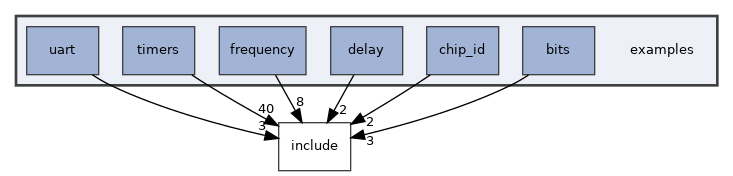
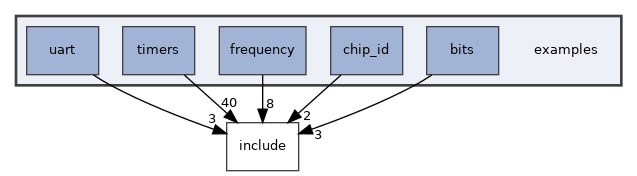
delay.h contains all includes now

Changed region(s): [[0.0, 0.0852, 0.9843, 0.9943], [0.5667, 0.5398, 0.6562, 0.6534], [0.6264, 0.483, 0.686, 0.5682]]

diff --git a/docs/html/dir_000009_000006.html b/docs/html/dir_000009_000006.html
@@ -21,7 +21,7 @@
  <tbody>
  <tr id="projectrow">
   <td id="projectalign">
-   <div id="projectname">STC15W408AS library<span id="projectnumber">&#160;0.3</span>
+   <div id="projectname">STC15W408AS library<span id="projectnumber">&#160;0.4</span>
    </div>
   </td>
  </tr>
@@ -66,7 +66,7 @@ $(function() {
 </div>
 </div><!-- top -->
 <div class="contents">
-<h3>src &rarr; include Relation</h3><table class="dirtab"><tr class="dirtab"><th class="dirtab">File in src</th><th class="dirtab">Includes file in include</th></tr><tr class="dirtab"><td class="dirtab"><b>chip_id.c</b></td><td class="dirtab"><a class="el" href="chip__id_8h.html">chip_id.h</a></td></tr><tr class="dirtab"><td class="dirtab"><b>chip_id_example.c</b></td><td class="dirtab"><a class="el" href="chip__id_8h.html">chip_id.h</a></td></tr><tr class="dirtab"><td class="dirtab"><b>chip_id_example.c</b></td><td class="dirtab"><a class="el" href="uart_8h.html">uart.h</a></td></tr><tr class="dirtab"><td class="dirtab"><b>delay.c</b></td><td class="dirtab"><a class="el" href="delay_8h.html">delay.h</a></td></tr><tr class="dirtab"><td class="dirtab"><b>delay.c</b></td><td class="dirtab"><a class="el" href="frequency_8h.html">frequency.h</a></td></tr><tr class="dirtab"><td class="dirtab"><b>frequency.c</b></td><td class="dirtab"><a class="el" href="frequency_8h.html">frequency.h</a></td></tr><tr class="dirtab"><td class="dirtab"><b>frequency.c</b></td><td class="dirtab"><a class="el" href="sys_8h.html">sys.h</a></td></tr><tr class="dirtab"><td class="dirtab"><b>interrupts.c</b></td><td class="dirtab"><a class="el" href="interrupts_8h.html">interrupts.h</a></td></tr><tr class="dirtab"><td class="dirtab"><b>interrupts.c</b></td><td class="dirtab"><a class="el" href="sys_8h.html">sys.h</a></td></tr><tr class="dirtab"><td class="dirtab"><b>timer0_common.c</b></td><td class="dirtab"><a class="el" href="sys_8h.html">sys.h</a></td></tr><tr class="dirtab"><td class="dirtab"><b>timer0_common.c</b></td><td class="dirtab"><a class="el" href="timer_8h.html">timer.h</a></td></tr><tr class="dirtab"><td class="dirtab"><b>timer0_mode0.c</b></td><td class="dirtab"><a class="el" href="sys_8h.html">sys.h</a></td></tr><tr class="dirtab"><td class="dirtab"><b>timer0_mode0.c</b></td><td class="dirtab"><a class="el" href="timer_8h.html">timer.h</a></td></tr><tr class="dirtab"><td class="dirtab"><b>timer0_mode1.c</b></td><td class="dirtab"><a class="el" href="sys_8h.html">sys.h</a></td></tr><tr class="dirtab"><td class="dirtab"><b>timer2_common.c</b></td><td class="dirtab"><a class="el" href="sys_8h.html">sys.h</a></td></tr><tr class="dirtab"><td class="dirtab"><b>timer2_common.c</b></td><td class="dirtab"><a class="el" href="timer_8h.html">timer.h</a></td></tr><tr class="dirtab"><td class="dirtab"><b>timer2_mode0.c</b></td><td class="dirtab"><a class="el" href="sys_8h.html">sys.h</a></td></tr><tr class="dirtab"><td class="dirtab"><b>uart.c</b></td><td class="dirtab"><a class="el" href="sys_8h.html">sys.h</a></td></tr><tr class="dirtab"><td class="dirtab"><b>uart.c</b></td><td class="dirtab"><a class="el" href="uart_8h.html">uart.h</a></td></tr></table></div><!-- contents -->
+<h3>src &rarr; include Relation</h3><table class="dirtab"><tr class="dirtab"><th class="dirtab">File in src</th><th class="dirtab">Includes file in include</th></tr><tr class="dirtab"><td class="dirtab"><b>chip_id.c</b></td><td class="dirtab"><a class="el" href="chip__id_8h.html">chip_id.h</a></td></tr><tr class="dirtab"><td class="dirtab"><b>delay.c</b></td><td class="dirtab"><a class="el" href="delay_8h.html">delay.h</a></td></tr><tr class="dirtab"><td class="dirtab"><b>delay_example.c</b></td><td class="dirtab"><a class="el" href="delay_8h.html">delay.h</a></td></tr><tr class="dirtab"><td class="dirtab"><b>delay_example.c</b></td><td class="dirtab"><a class="el" href="sys_8h.html">sys.h</a></td></tr><tr class="dirtab"><td class="dirtab"><b>frequency.c</b></td><td class="dirtab"><a class="el" href="frequency_8h.html">frequency.h</a></td></tr><tr class="dirtab"><td class="dirtab"><b>frequency.c</b></td><td class="dirtab"><a class="el" href="sys_8h.html">sys.h</a></td></tr><tr class="dirtab"><td class="dirtab"><b>interrupts.c</b></td><td class="dirtab"><a class="el" href="interrupts_8h.html">interrupts.h</a></td></tr><tr class="dirtab"><td class="dirtab"><b>interrupts.c</b></td><td class="dirtab"><a class="el" href="sys_8h.html">sys.h</a></td></tr><tr class="dirtab"><td class="dirtab"><b>timer0_common.c</b></td><td class="dirtab"><a class="el" href="sys_8h.html">sys.h</a></td></tr><tr class="dirtab"><td class="dirtab"><b>timer0_common.c</b></td><td class="dirtab"><a class="el" href="timer_8h.html">timer.h</a></td></tr><tr class="dirtab"><td class="dirtab"><b>timer0_mode0.c</b></td><td class="dirtab"><a class="el" href="sys_8h.html">sys.h</a></td></tr><tr class="dirtab"><td class="dirtab"><b>timer0_mode0.c</b></td><td class="dirtab"><a class="el" href="timer_8h.html">timer.h</a></td></tr><tr class="dirtab"><td class="dirtab"><b>timer0_mode1.c</b></td><td class="dirtab"><a class="el" href="sys_8h.html">sys.h</a></td></tr><tr class="dirtab"><td class="dirtab"><b>timer2_common.c</b></td><td class="dirtab"><a class="el" href="sys_8h.html">sys.h</a></td></tr><tr class="dirtab"><td class="dirtab"><b>timer2_common.c</b></td><td class="dirtab"><a class="el" href="timer_8h.html">timer.h</a></td></tr><tr class="dirtab"><td class="dirtab"><b>timer2_mode0.c</b></td><td class="dirtab"><a class="el" href="sys_8h.html">sys.h</a></td></tr><tr class="dirtab"><td class="dirtab"><b>uart.c</b></td><td class="dirtab"><a class="el" href="sys_8h.html">sys.h</a></td></tr><tr class="dirtab"><td class="dirtab"><b>uart.c</b></td><td class="dirtab"><a class="el" href="uart_8h.html">uart.h</a></td></tr></table></div><!-- contents -->
 <!-- start footer part -->
 <hr class="footer"/><address class="footer"><small>
 Generated by&#160;<a href="https://www.doxygen.org/index.html"><img class="footer" src="doxygen.svg" width="104" height="31" alt="doxygen"/></a> 1.9.4

diff --git a/docs/html/dir_000002_000006.html b/docs/html/dir_000002_000006.html
@@ -5,7 +5,7 @@
 <meta http-equiv="X-UA-Compatible" content="IE=11"/>
 <meta name="generator" content="Doxygen 1.9.4"/>
 <meta name="viewport" content="width=device-width, initial-scale=1"/>
-<title>STC15W408AS library: examples/timers/common -&gt; include Relation</title>
+<title>STC15W408AS library: examples/chip_id -&gt; include Relation</title>
 <link href="tabs.css" rel="stylesheet" type="text/css"/>
 <script type="text/javascript" src="jquery.js"></script>
 <script type="text/javascript" src="dynsections.js"></script>
@@ -21,7 +21,7 @@
  <tbody>
  <tr id="projectrow">
   <td id="projectalign">
-   <div id="projectname">STC15W408AS library<span id="projectnumber">&#160;0.3</span>
+   <div id="projectname">STC15W408AS library<span id="projectnumber">&#160;0.4</span>
    </div>
   </td>
  </tr>
@@ -62,11 +62,11 @@ $(function() {
 
 <div id="nav-path" class="navpath">
   <ul>
-<li class="navelem"><a class="el" href="dir_d28a4824dc47e487b107a5db32ef43c4.html">examples</a></li><li class="navelem"><a class="el" href="dir_85259a4d698e3dedfaa3528402e5a418.html">timers</a></li><li class="navelem"><a class="el" href="dir_6709bcf2d913ef364a8cac64c0b067c4.html">common</a></li>  </ul>
+<li class="navelem"><a class="el" href="dir_d28a4824dc47e487b107a5db32ef43c4.html">examples</a></li><li class="navelem"><a class="el" href="dir_3d912f430f8f20417cc587910e4b8eb6.html">chip_id</a></li>  </ul>
 </div>
 </div><!-- top -->
 <div class="contents">
-<h3>common &rarr; include Relation</h3><table class="dirtab"><tr class="dirtab"><th class="dirtab">File in examples/timers/common</th><th class="dirtab">Includes file in include</th></tr><tr class="dirtab"><td class="dirtab"><b>timer0_common_example.c</b></td><td class="dirtab"><a class="el" href="delay_8h.html">delay.h</a></td></tr><tr class="dirtab"><td class="dirtab"><b>timer0_common_example.c</b></td><td class="dirtab"><a class="el" href="sys_8h.html">sys.h</a></td></tr><tr class="dirtab"><td class="dirtab"><b>timer0_common_example.c</b></td><td class="dirtab"><a class="el" href="timer_8h.html">timer.h</a></td></tr><tr class="dirtab"><td class="dirtab"><b>timer0_common_example.c</b></td><td class="dirtab"><a class="el" href="uart_8h.html">uart.h</a></td></tr><tr class="dirtab"><td class="dirtab"><b>timer0_mode0_12T_interrupt_example.c</b></td><td class="dirtab"><a class="el" href="delay_8h.html">delay.h</a></td></tr><tr class="dirtab"><td class="dirtab"><b>timer0_mode0_12T_interrupt_example.c</b></td><td class="dirtab"><a class="el" href="sys_8h.html">sys.h</a></td></tr><tr class="dirtab"><td class="dirtab"><b>timer0_mode0_12T_interrupt_example.c</b></td><td class="dirtab"><a class="el" href="timer_8h.html">timer.h</a></td></tr><tr class="dirtab"><td class="dirtab"><b>timer2_common_example.c</b></td><td class="dirtab"><a class="el" href="delay_8h.html">delay.h</a></td></tr><tr class="dirtab"><td class="dirtab"><b>timer2_common_example.c</b></td><td class="dirtab"><a class="el" href="sys_8h.html">sys.h</a></td></tr><tr class="dirtab"><td class="dirtab"><b>timer2_common_example.c</b></td><td class="dirtab"><a class="el" href="timer_8h.html">timer.h</a></td></tr><tr class="dirtab"><td class="dirtab"><b>timer2_common_example.c</b></td><td class="dirtab"><a class="el" href="uart_8h.html">uart.h</a></td></tr></table></div><!-- contents -->
+<h3>chip_id &rarr; include Relation</h3><table class="dirtab"><tr class="dirtab"><th class="dirtab">File in examples/chip_id</th><th class="dirtab">Includes file in include</th></tr><tr class="dirtab"><td class="dirtab"><b>chip_id_example.c</b></td><td class="dirtab"><a class="el" href="chip__id_8h.html">chip_id.h</a></td></tr><tr class="dirtab"><td class="dirtab"><b>chip_id_example.c</b></td><td class="dirtab"><a class="el" href="uart_8h.html">uart.h</a></td></tr></table></div><!-- contents -->
 <!-- start footer part -->
 <hr class="footer"/><address class="footer"><small>
 Generated by&#160;<a href="https://www.doxygen.org/index.html"><img class="footer" src="doxygen.svg" width="104" height="31" alt="doxygen"/></a> 1.9.4

diff --git a/docs/html/dir_000003_000006.html b/docs/html/dir_000003_000006.html
@@ -5,7 +5,7 @@
 <meta http-equiv="X-UA-Compatible" content="IE=11"/>
 <meta name="generator" content="Doxygen 1.9.4"/>
 <meta name="viewport" content="width=device-width, initial-scale=1"/>
-<title>STC15W408AS library: examples/delay -&gt; include Relation</title>
+<title>STC15W408AS library: examples/timers/common -&gt; include Relation</title>
 <link href="tabs.css" rel="stylesheet" type="text/css"/>
 <script type="text/javascript" src="jquery.js"></script>
 <script type="text/javascript" src="dynsections.js"></script>
@@ -21,7 +21,7 @@
  <tbody>
  <tr id="projectrow">
   <td id="projectalign">
-   <div id="projectname">STC15W408AS library<span id="projectnumber">&#160;0.3</span>
+   <div id="projectname">STC15W408AS library<span id="projectnumber">&#160;0.4</span>
    </div>
   </td>
  </tr>
@@ -62,11 +62,11 @@ $(function() {
 
 <div id="nav-path" class="navpath">
   <ul>
-<li class="navelem"><a class="el" href="dir_d28a4824dc47e487b107a5db32ef43c4.html">examples</a></li><li class="navelem"><a class="el" href="dir_a077256fa57d221b8243921f3a5dc181.html">delay</a></li>  </ul>
+<li class="navelem"><a class="el" href="dir_d28a4824dc47e487b107a5db32ef43c4.html">examples</a></li><li class="navelem"><a class="el" href="dir_85259a4d698e3dedfaa3528402e5a418.html">timers</a></li><li class="navelem"><a class="el" href="dir_6709bcf2d913ef364a8cac64c0b067c4.html">common</a></li>  </ul>
 </div>
 </div><!-- top -->
 <div class="contents">
-<h3>delay &rarr; include Relation</h3><table class="dirtab"><tr class="dirtab"><th class="dirtab">File in examples/delay</th><th class="dirtab">Includes file in include</th></tr><tr class="dirtab"><td class="dirtab"><b>delay_example.c</b></td><td class="dirtab"><a class="el" href="delay_8h.html">delay.h</a></td></tr><tr class="dirtab"><td class="dirtab"><b>delay_example.c</b></td><td class="dirtab"><a class="el" href="sys_8h.html">sys.h</a></td></tr></table></div><!-- contents -->
+<h3>common &rarr; include Relation</h3><table class="dirtab"><tr class="dirtab"><th class="dirtab">File in examples/timers/common</th><th class="dirtab">Includes file in include</th></tr><tr class="dirtab"><td class="dirtab"><b>timer0_common_example.c</b></td><td class="dirtab"><a class="el" href="delay_8h.html">delay.h</a></td></tr><tr class="dirtab"><td class="dirtab"><b>timer0_common_example.c</b></td><td class="dirtab"><a class="el" href="sys_8h.html">sys.h</a></td></tr><tr class="dirtab"><td class="dirtab"><b>timer0_common_example.c</b></td><td class="dirtab"><a class="el" href="timer_8h.html">timer.h</a></td></tr><tr class="dirtab"><td class="dirtab"><b>timer0_common_example.c</b></td><td class="dirtab"><a class="el" href="uart_8h.html">uart.h</a></td></tr><tr class="dirtab"><td class="dirtab"><b>timer0_mode0_12T_interrupt_example.c</b></td><td class="dirtab"><a class="el" href="delay_8h.html">delay.h</a></td></tr><tr class="dirtab"><td class="dirtab"><b>timer0_mode0_12T_interrupt_example.c</b></td><td class="dirtab"><a class="el" href="sys_8h.html">sys.h</a></td></tr><tr class="dirtab"><td class="dirtab"><b>timer0_mode0_12T_interrupt_example.c</b></td><td class="dirtab"><a class="el" href="timer_8h.html">timer.h</a></td></tr><tr class="dirtab"><td class="dirtab"><b>timer2_common_example.c</b></td><td class="dirtab"><a class="el" href="delay_8h.html">delay.h</a></td></tr><tr class="dirtab"><td class="dirtab"><b>timer2_common_example.c</b></td><td class="dirtab"><a class="el" href="sys_8h.html">sys.h</a></td></tr><tr class="dirtab"><td class="dirtab"><b>timer2_common_example.c</b></td><td class="dirtab"><a class="el" href="timer_8h.html">timer.h</a></td></tr><tr class="dirtab"><td class="dirtab"><b>timer2_common_example.c</b></td><td class="dirtab"><a class="el" href="uart_8h.html">uart.h</a></td></tr></table></div><!-- contents -->
 <!-- start footer part -->
 <hr class="footer"/><address class="footer"><small>
 Generated by&#160;<a href="https://www.doxygen.org/index.html"><img class="footer" src="doxygen.svg" width="104" height="31" alt="doxygen"/></a> 1.9.4

diff --git a/docs/html/dir_d28a4824dc47e487b107a5db32ef43c4.html b/docs/html/dir_d28a4824dc47e487b107a5db32ef43c4.html
@@ -74,20 +74,18 @@ Directory dependency graph for examples:</div>
 <div class="dyncontent">
 <div class="center"><img src="dir_d28a4824dc47e487b107a5db32ef43c4_dep.png" border="0" usemap="#adir__d28a4824dc47e487b107a5db32ef43c4__dep" alt="examples"/></div>
 <map name="adir__d28a4824dc47e487b107a5db32ef43c4__dep" id="adir__d28a4824dc47e487b107a5db32ef43c4__dep">
-<area shape="rect" href="dir_cfcc1510566ad3deac88d4f5f34ac519.html" title="bits" alt="" coords="523,27,595,75"/>
-<area shape="rect" href="dir_d44c64559bbebec7f509842c48db8b23.html" title="include" alt="" coords="279,123,351,171"/>
-<area shape="rect" href="dir_000001_000007.html" title="3" alt="" coords="366,135,375,149"/>
-<area shape="rect" href="dir_3d912f430f8f20417cc587910e4b8eb6.html" title="chip_id" alt="" coords="427,27,499,75"/>
-<area shape="rect" href="dir_000002_000007.html" title="2" alt="" coords="366,115,376,130"/>
-<area shape="rect" href="dir_a077256fa57d221b8243921f3a5dc181.html" title="delay" alt="" coords="331,27,403,75"/>
-<area shape="rect" href="dir_000004_000007.html" title="2" alt="" coords="339,103,348,118"/>
+<area shape="rect" href="dir_cfcc1510566ad3deac88d4f5f34ac519.html" title="bits" alt="" coords="427,27,499,75"/>
+<area shape="rect" href="dir_d44c64559bbebec7f509842c48db8b23.html" title="include" alt="" coords="227,123,299,171"/>
+<area shape="rect" href="dir_000001_000006.html" title="3" alt="" coords="314,128,323,143"/>
+<area shape="rect" href="dir_3d912f430f8f20417cc587910e4b8eb6.html" title="chip_id" alt="" coords="331,27,403,75"/>
+<area shape="rect" href="dir_000002_000006.html" title="2" alt="" coords="303,109,312,124"/>
 <area shape="rect" href="dir_022c70a4c242b590c6b5b9f5062478fb.html" title="frequency" alt="" coords="219,27,306,75"/>
-<area shape="rect" href="dir_000006_000007.html" title="8" alt="" coords="296,95,305,110"/>
+<area shape="rect" href="dir_000005_000006.html" title="8" alt="" coords="266,97,276,112"/>
 <area shape="rect" href="dir_85259a4d698e3dedfaa3528402e5a418.html" title="timers" alt="" coords="123,27,195,75"/>
-<area shape="rect" href="dir_000011_000007.html" title="40" alt="" coords="258,102,275,117"/>
+<area shape="rect" href="dir_000010_000006.html" title="40" alt="" coords="221,97,238,111"/>
 <area shape="rect" href="dir_76fe44c6ca20bab07ba4bcccb4a1a186.html" title="uart" alt="" coords="27,27,99,75"/>
-<area shape="rect" href="dir_000012_000007.html" title="3" alt="" coords="258,119,267,134"/>
-<area shape="rect" href="dir_d28a4824dc47e487b107a5db32ef43c4.html" alt="" coords="16,16,717,85"/>
+<area shape="rect" href="dir_000011_000006.html" title="3" alt="" coords="208,112,217,127"/>
+<area shape="rect" href="dir_d28a4824dc47e487b107a5db32ef43c4.html" alt="" coords="16,16,621,85"/>
 </map>
 </div>
 <table class="memberdecls">
@@ -96,8 +94,6 @@ Directories</h2></td></tr>
 <tr class="memitem:"><td class="memItemLeft" align="right" valign="top">directory &#160;</td><td class="memItemRight" valign="bottom"><a class="el" href="dir_cfcc1510566ad3deac88d4f5f34ac519.html">bits</a></td></tr>
 <tr class="separator:"><td class="memSeparator" colspan="2">&#160;</td></tr>
 <tr class="memitem:"><td class="memItemLeft" align="right" valign="top">directory &#160;</td><td class="memItemRight" valign="bottom"><a class="el" href="dir_3d912f430f8f20417cc587910e4b8eb6.html">chip_id</a></td></tr>
-<tr class="separator:"><td class="memSeparator" colspan="2">&#160;</td></tr>
-<tr class="memitem:"><td class="memItemLeft" align="right" valign="top">directory &#160;</td><td class="memItemRight" valign="bottom"><a class="el" href="dir_a077256fa57d221b8243921f3a5dc181.html">delay</a></td></tr>
 <tr class="separator:"><td class="memSeparator" colspan="2">&#160;</td></tr>
 <tr class="memitem:"><td class="memItemLeft" align="right" valign="top">directory &#160;</td><td class="memItemRight" valign="bottom"><a class="el" href="dir_022c70a4c242b590c6b5b9f5062478fb.html">frequency</a></td></tr>
 <tr class="separator:"><td class="memSeparator" colspan="2">&#160;</td></tr>

diff --git a/docs/html/delay_8h_source.html b/docs/html/delay_8h_source.html
@@ -72,12 +72,14 @@ $(function() {
 <a href="delay_8h.html">Go to the documentation of this file.</a><div class="fragment"><div class="line"><a id="l00001" name="l00001"></a><span class="lineno">    1</span><span class="preprocessor">#ifndef STC15_DELAYH</span></div>
 <div class="line"><a id="l00002" name="l00002"></a><span class="lineno">    2</span><span class="preprocessor">#define STC15_DELAYH</span></div>
 <div class="line"><a id="l00003" name="l00003"></a><span class="lineno">    3</span> </div>
-<div class="line"><a id="l00010" name="l00010"></a><span class="lineno">   10</span><span class="preprocessor">#include &lt;stdint.h&gt;</span></div>
-<div class="line"><a id="l00011" name="l00011"></a><span class="lineno">   11</span> </div>
-<div class="line"><a id="l00020" name="l00020"></a><span class="lineno">   20</span><span class="keywordtype">void</span> <a class="code hl_function" href="group__delays.html#gaa0dce6d249d81fb85b082273270ba710">delay_ms</a>(uint16_t ms);</div>
-<div class="line"><a id="l00021" name="l00021"></a><span class="lineno">   21</span> </div>
-<div class="line"><a id="l00022" name="l00022"></a><span class="lineno">   22</span><span class="preprocessor">#endif</span></div>
-<div class="ttc" id="agroup__delays_html_gaa0dce6d249d81fb85b082273270ba710"><div class="ttname"><a href="group__delays.html#gaa0dce6d249d81fb85b082273270ba710">delay_ms</a></div><div class="ttdeci">void delay_ms(uint16_t ms)</div><div class="ttdoc">Delays program flow using CPU nop.</div><div class="ttdef"><b>Definition:</b> delay.c:5</div></div>
+<div class="line"><a id="l00011" name="l00011"></a><span class="lineno">   11</span><span class="preprocessor">#include &lt;stdint.h&gt;</span></div>
+<div class="line"><a id="l00012" name="l00012"></a><span class="lineno">   12</span><span class="preprocessor">#include &lt;<a class="code" href="frequency_8h.html">frequency.h</a>&gt;</span></div>
+<div class="line"><a id="l00013" name="l00013"></a><span class="lineno">   13</span> </div>
+<div class="line"><a id="l00022" name="l00022"></a><span class="lineno">   22</span><span class="keywordtype">void</span> <a class="code hl_function" href="group__delays.html#gaa0dce6d249d81fb85b082273270ba710">delay_ms</a>(uint16_t ms);</div>
+<div class="line"><a id="l00023" name="l00023"></a><span class="lineno">   23</span> </div>
+<div class="line"><a id="l00024" name="l00024"></a><span class="lineno">   24</span><span class="preprocessor">#endif</span></div>
+<div class="ttc" id="afrequency_8h_html"><div class="ttname"><a href="frequency_8h.html">frequency.h</a></div></div>
+<div class="ttc" id="agroup__delays_html_gaa0dce6d249d81fb85b082273270ba710"><div class="ttname"><a href="group__delays.html#gaa0dce6d249d81fb85b082273270ba710">delay_ms</a></div><div class="ttdeci">void delay_ms(uint16_t ms)</div><div class="ttdoc">Delays program flow using CPU nop.</div><div class="ttdef"><b>Definition:</b> delay.c:3</div></div>
 </div><!-- fragment --></div><!-- contents -->
 <!-- start footer part -->
 <hr class="footer"/><address class="footer"><small>

diff --git a/docs/html/dir_85259a4d698e3dedfaa3528402e5a418.html b/docs/html/dir_85259a4d698e3dedfaa3528402e5a418.html
@@ -76,13 +76,13 @@ Directory dependency graph for timers:</div>
 <map name="adir__85259a4d698e3dedfaa3528402e5a418__dep" id="adir__85259a4d698e3dedfaa3528402e5a418__dep">
 <area shape="rect" href="dir_16da116bdf688f89e84e4f98348f6544.html" title="aux" alt="" coords="333,63,405,111"/>
 <area shape="rect" href="dir_d44c64559bbebec7f509842c48db8b23.html" title="include" alt="" coords="183,159,255,207"/>
-<area shape="rect" href="dir_000000_000007.html" title="3" alt="" coords="270,160,279,175"/>
+<area shape="rect" href="dir_000000_000006.html" title="3" alt="" coords="270,160,279,175"/>
 <area shape="rect" href="dir_6709bcf2d913ef364a8cac64c0b067c4.html" title="common" alt="" coords="230,63,309,111"/>
-<area shape="rect" href="dir_000003_000007.html" title="11" alt="" coords="238,139,256,154"/>
+<area shape="rect" href="dir_000003_000006.html" title="11" alt="" coords="238,139,256,154"/>
 <area shape="rect" href="dir_dc076f52651577e8f8b5718b1ee90d63.html" title="mode0" alt="" coords="133,63,205,111"/>
-<area shape="rect" href="dir_000008_000007.html" title="24" alt="" coords="197,131,214,146"/>
+<area shape="rect" href="dir_000007_000006.html" title="24" alt="" coords="197,131,214,146"/>
 <area shape="rect" href="dir_7cc1115f7c8b009fd964c3da27af34f2.html" title="mode1" alt="" coords="37,63,109,111"/>
-<area shape="rect" href="dir_000009_000007.html" title="2" alt="" coords="165,143,175,158"/>
+<area shape="rect" href="dir_000008_000006.html" title="2" alt="" coords="165,143,175,158"/>
 <area shape="rect" href="dir_85259a4d698e3dedfaa3528402e5a418.html" alt="" coords="27,52,512,121"/>
 <area shape="rect" href="dir_d28a4824dc47e487b107a5db32ef43c4.html" title="examples" alt="" coords="16,16,523,132"/>
 </map>

diff --git a/docs/html/delay_8h.html b/docs/html/delay_8h.html
@@ -72,13 +72,15 @@ $(function() {
 </div><!--header-->
 <div class="contents">
 <div class="textblock"><code>#include &lt;stdint.h&gt;</code><br />
+<code>#include &lt;<a class="el" href="frequency_8h_source.html">frequency.h</a>&gt;</code><br />
 </div><div class="textblock"><div class="dynheader">
 Include dependency graph for delay.h:</div>
 <div class="dyncontent">
 <div class="center"><img src="delay_8h__incl.png" border="0" usemap="#ainclude_2delay_8h" alt=""/></div>
 <map name="ainclude_2delay_8h" id="ainclude_2delay_8h">
 <area shape="rect" title=" " alt="" coords="5,5,124,32"/>
-<area shape="rect" title=" " alt="" coords="29,80,100,107"/>
+<area shape="rect" title=" " alt="" coords="29,155,100,181"/>
+<area shape="rect" href="frequency_8h.html" title=" " alt="" coords="60,80,157,107"/>
 </map>
 </div>
 </div>

diff --git a/docs/html/frequency_8h.html b/docs/html/frequency_8h.html
@@ -83,6 +83,15 @@ Include dependency graph for frequency.h:</div>
 <area shape="rect" title=" " alt="" coords="44,80,115,107"/>
 </map>
 </div>
+</div><div class="textblock"><div class="dynheader">
+This graph shows which files directly or indirectly include this file:</div>
+<div class="dyncontent">
+<div class="center"><img src="frequency_8h__dep__incl.png" border="0" usemap="#ainclude_2frequency_8hdep" alt=""/></div>
+<map name="ainclude_2frequency_8hdep" id="ainclude_2frequency_8hdep">
+<area shape="rect" title=" " alt="" coords="5,5,153,32"/>
+<area shape="rect" href="delay_8h.html" title=" " alt="" coords="20,80,139,107"/>
+</map>
+</div>
 </div>
 <p><a href="frequency_8h_source.html">Go to the source code of this file.</a></p>
 <table class="memberdecls">

diff --git a/docs/html/dir_022c70a4c242b590c6b5b9f5062478fb.html b/docs/html/dir_022c70a4c242b590c6b5b9f5062478fb.html
@@ -76,7 +76,7 @@ Directory dependency graph for frequency:</div>
 <map name="adir__022c70a4c242b590c6b5b9f5062478fb__dep" id="adir__022c70a4c242b590c6b5b9f5062478fb__dep">
 <area shape="rect" href="dir_022c70a4c242b590c6b5b9f5062478fb.html" title="frequency" alt="" coords="27,52,114,100"/>
 <area shape="rect" href="dir_d44c64559bbebec7f509842c48db8b23.html" title="include" alt="" coords="35,148,107,196"/>
-<area shape="rect" href="dir_000006_000007.html" title="8" alt="" coords="74,122,84,137"/>
+<area shape="rect" href="dir_000005_000006.html" title="8" alt="" coords="74,122,84,137"/>
 <area shape="rect" href="dir_d28a4824dc47e487b107a5db32ef43c4.html" title="examples" alt="" coords="16,16,125,111"/>
 </map>
 </div>

diff --git a/docs/html/dir_3d912f430f8f20417cc587910e4b8eb6.html b/docs/html/dir_3d912f430f8f20417cc587910e4b8eb6.html
@@ -76,7 +76,7 @@ Directory dependency graph for chip_id:</div>
 <map name="adir__3d912f430f8f20417cc587910e4b8eb6__dep" id="adir__3d912f430f8f20417cc587910e4b8eb6__dep">
 <area shape="rect" href="dir_3d912f430f8f20417cc587910e4b8eb6.html" title="chip_id" alt="" coords="27,52,99,100"/>
 <area shape="rect" href="dir_d44c64559bbebec7f509842c48db8b23.html" title="include" alt="" coords="27,148,99,196"/>
-<area shape="rect" href="dir_000002_000007.html" title="2" alt="" coords="66,122,76,137"/>
+<area shape="rect" href="dir_000002_000006.html" title="2" alt="" coords="66,122,76,137"/>
 <area shape="rect" href="dir_d28a4824dc47e487b107a5db32ef43c4.html" title="examples" alt="" coords="16,16,109,111"/>
 </map>
 </div>

diff --git a/docs/html/dir_6709bcf2d913ef364a8cac64c0b067c4.html b/docs/html/dir_6709bcf2d913ef364a8cac64c0b067c4.html
@@ -76,7 +76,7 @@ Directory dependency graph for common:</div>
 <map name="adir__6709bcf2d913ef364a8cac64c0b067c4__dep" id="adir__6709bcf2d913ef364a8cac64c0b067c4__dep">
 <area shape="rect" href="dir_6709bcf2d913ef364a8cac64c0b067c4.html" title="common" alt="" coords="27,52,106,100"/>
 <area shape="rect" href="dir_d44c64559bbebec7f509842c48db8b23.html" title="include" alt="" coords="31,148,103,196"/>
-<area shape="rect" href="dir_000003_000007.html" title="11" alt="" coords="66,122,84,137"/>
+<area shape="rect" href="dir_000003_000006.html" title="11" alt="" coords="66,122,84,137"/>
 <area shape="rect" href="dir_85259a4d698e3dedfaa3528402e5a418.html" title="timers" alt="" coords="16,16,117,111"/>
 </map>
 </div>

diff --git a/docs/html/dir_dc076f52651577e8f8b5718b1ee90d63.html b/docs/html/dir_dc076f52651577e8f8b5718b1ee90d63.html
@@ -76,7 +76,7 @@ Directory dependency graph for mode0:</div>
 <map name="adir__dc076f52651577e8f8b5718b1ee90d63__dep" id="adir__dc076f52651577e8f8b5718b1ee90d63__dep">
 <area shape="rect" href="dir_dc076f52651577e8f8b5718b1ee90d63.html" title="mode0" alt="" coords="27,52,99,100"/>
 <area shape="rect" href="dir_d44c64559bbebec7f509842c48db8b23.html" title="include" alt="" coords="27,148,99,196"/>
-<area shape="rect" href="dir_000008_000007.html" title="24" alt="" coords="62,122,80,137"/>
+<area shape="rect" href="dir_000007_000006.html" title="24" alt="" coords="62,122,80,137"/>
 <area shape="rect" href="dir_85259a4d698e3dedfaa3528402e5a418.html" title="timers" alt="" coords="16,16,109,111"/>
 </map>
 </div>
